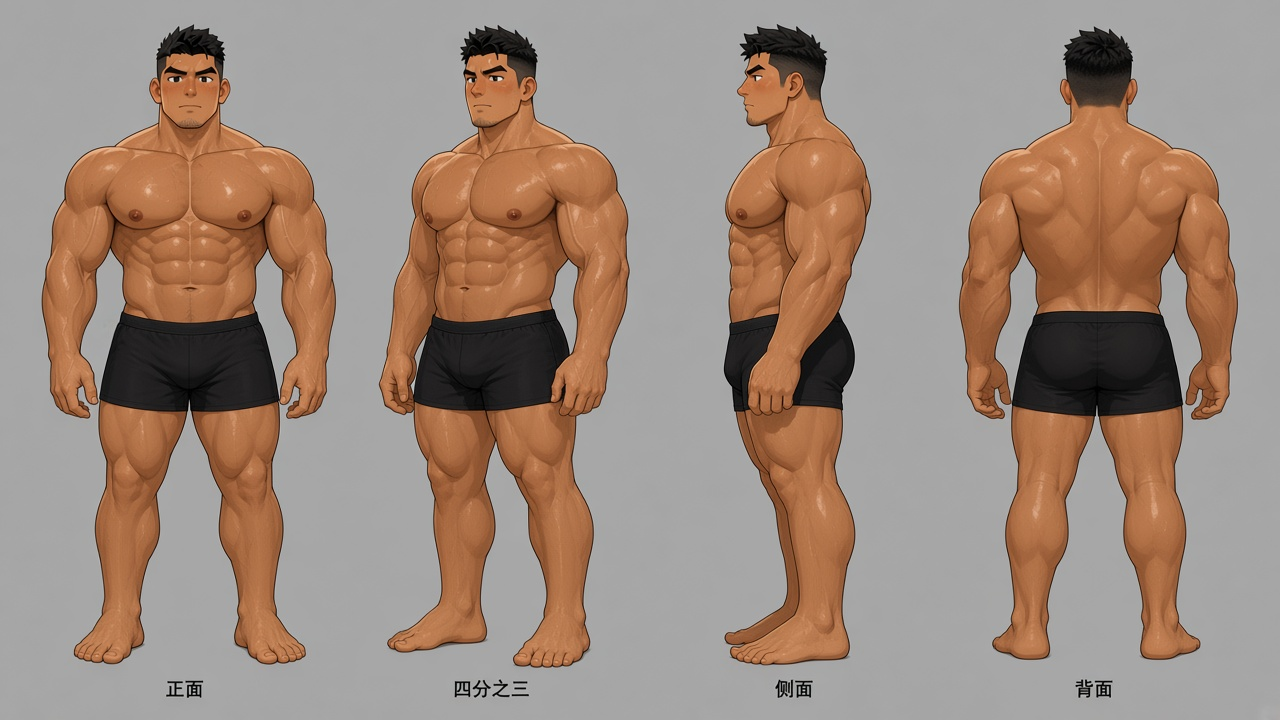
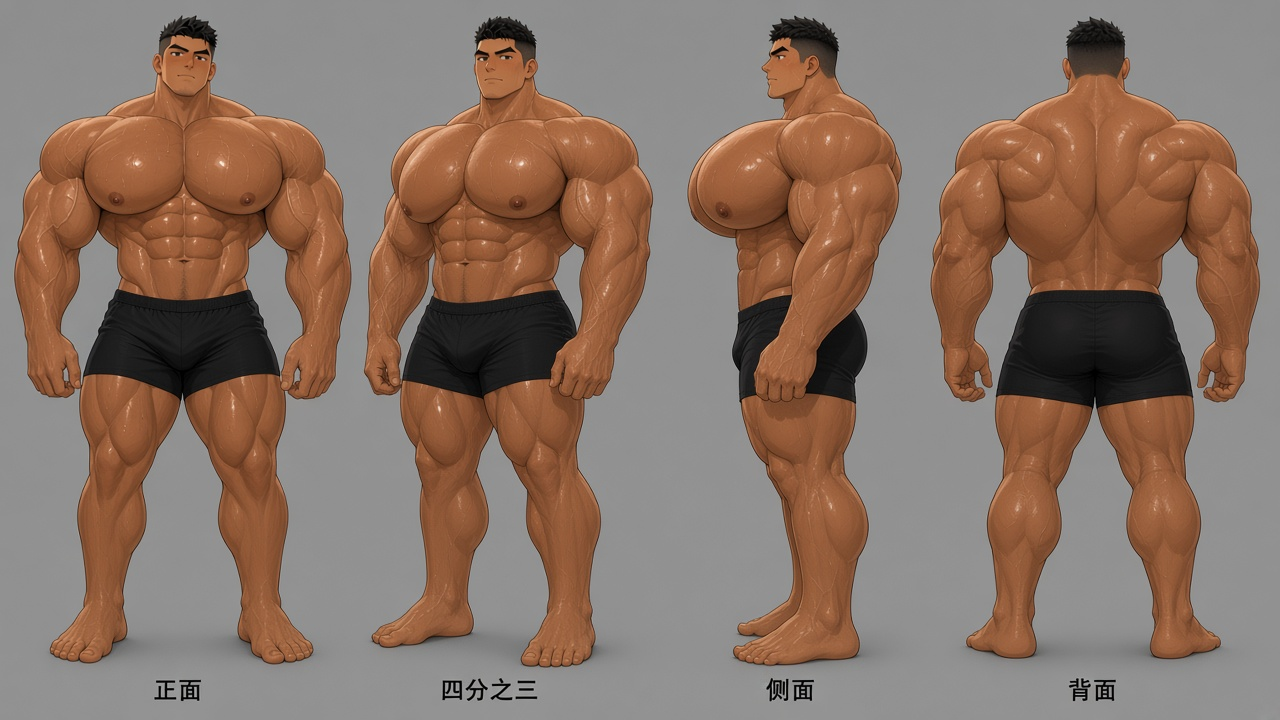
fix: 多角度设定改成高个子和大胸
按原图把身高拉长、腿拉长，胸改回又圆又大的体积，头部改回侧目和薄胡茬。

diff --git a/漫画分镜/多角度设定/设定说明.md b/漫画分镜/多角度设定/设定说明.md
@@ -1,11 +1,11 @@
 # 多角度设定
 
-依据用户提供的正面半身。脸和上半身按原图锁死。原图只到腰，腿和背面是按同一体型补出来的。下身用平黑短裤，方便看清腿和背面。
+依据 `剧情画本/ComfyUI_temp_csgbr_00010_.png` 的正面。上一版偏矮、胸偏小，这一版把身高拉长、腿拉长，胸按原图的圆度和体积重画。下身用平黑短裤，方便看清腿和背面。
 
 ## 识别点
 
-- 脸：短碎发，两侧渐薄，眉骨重，眼窄，鼻梁宽，下颌方，下巴和上唇只有一层薄胡茬。
-- 体：胸又圆又沉，肩极宽，颈粗，手臂厚，腹肌分开，腰相对胸更收。
+- 脸：短碎发，两侧渐薄，眉骨重，眼窄，常往侧边看，鼻梁宽，下颌方，下巴和上唇一层薄胡茬。
+- 体：高，腿长于上身。胸又圆又大，单侧比头还宽，向前鼓出。肩极宽，腰相对胸更收。不是矮胖。
 - 肤色：暖小麦色。
 
 ## 图
